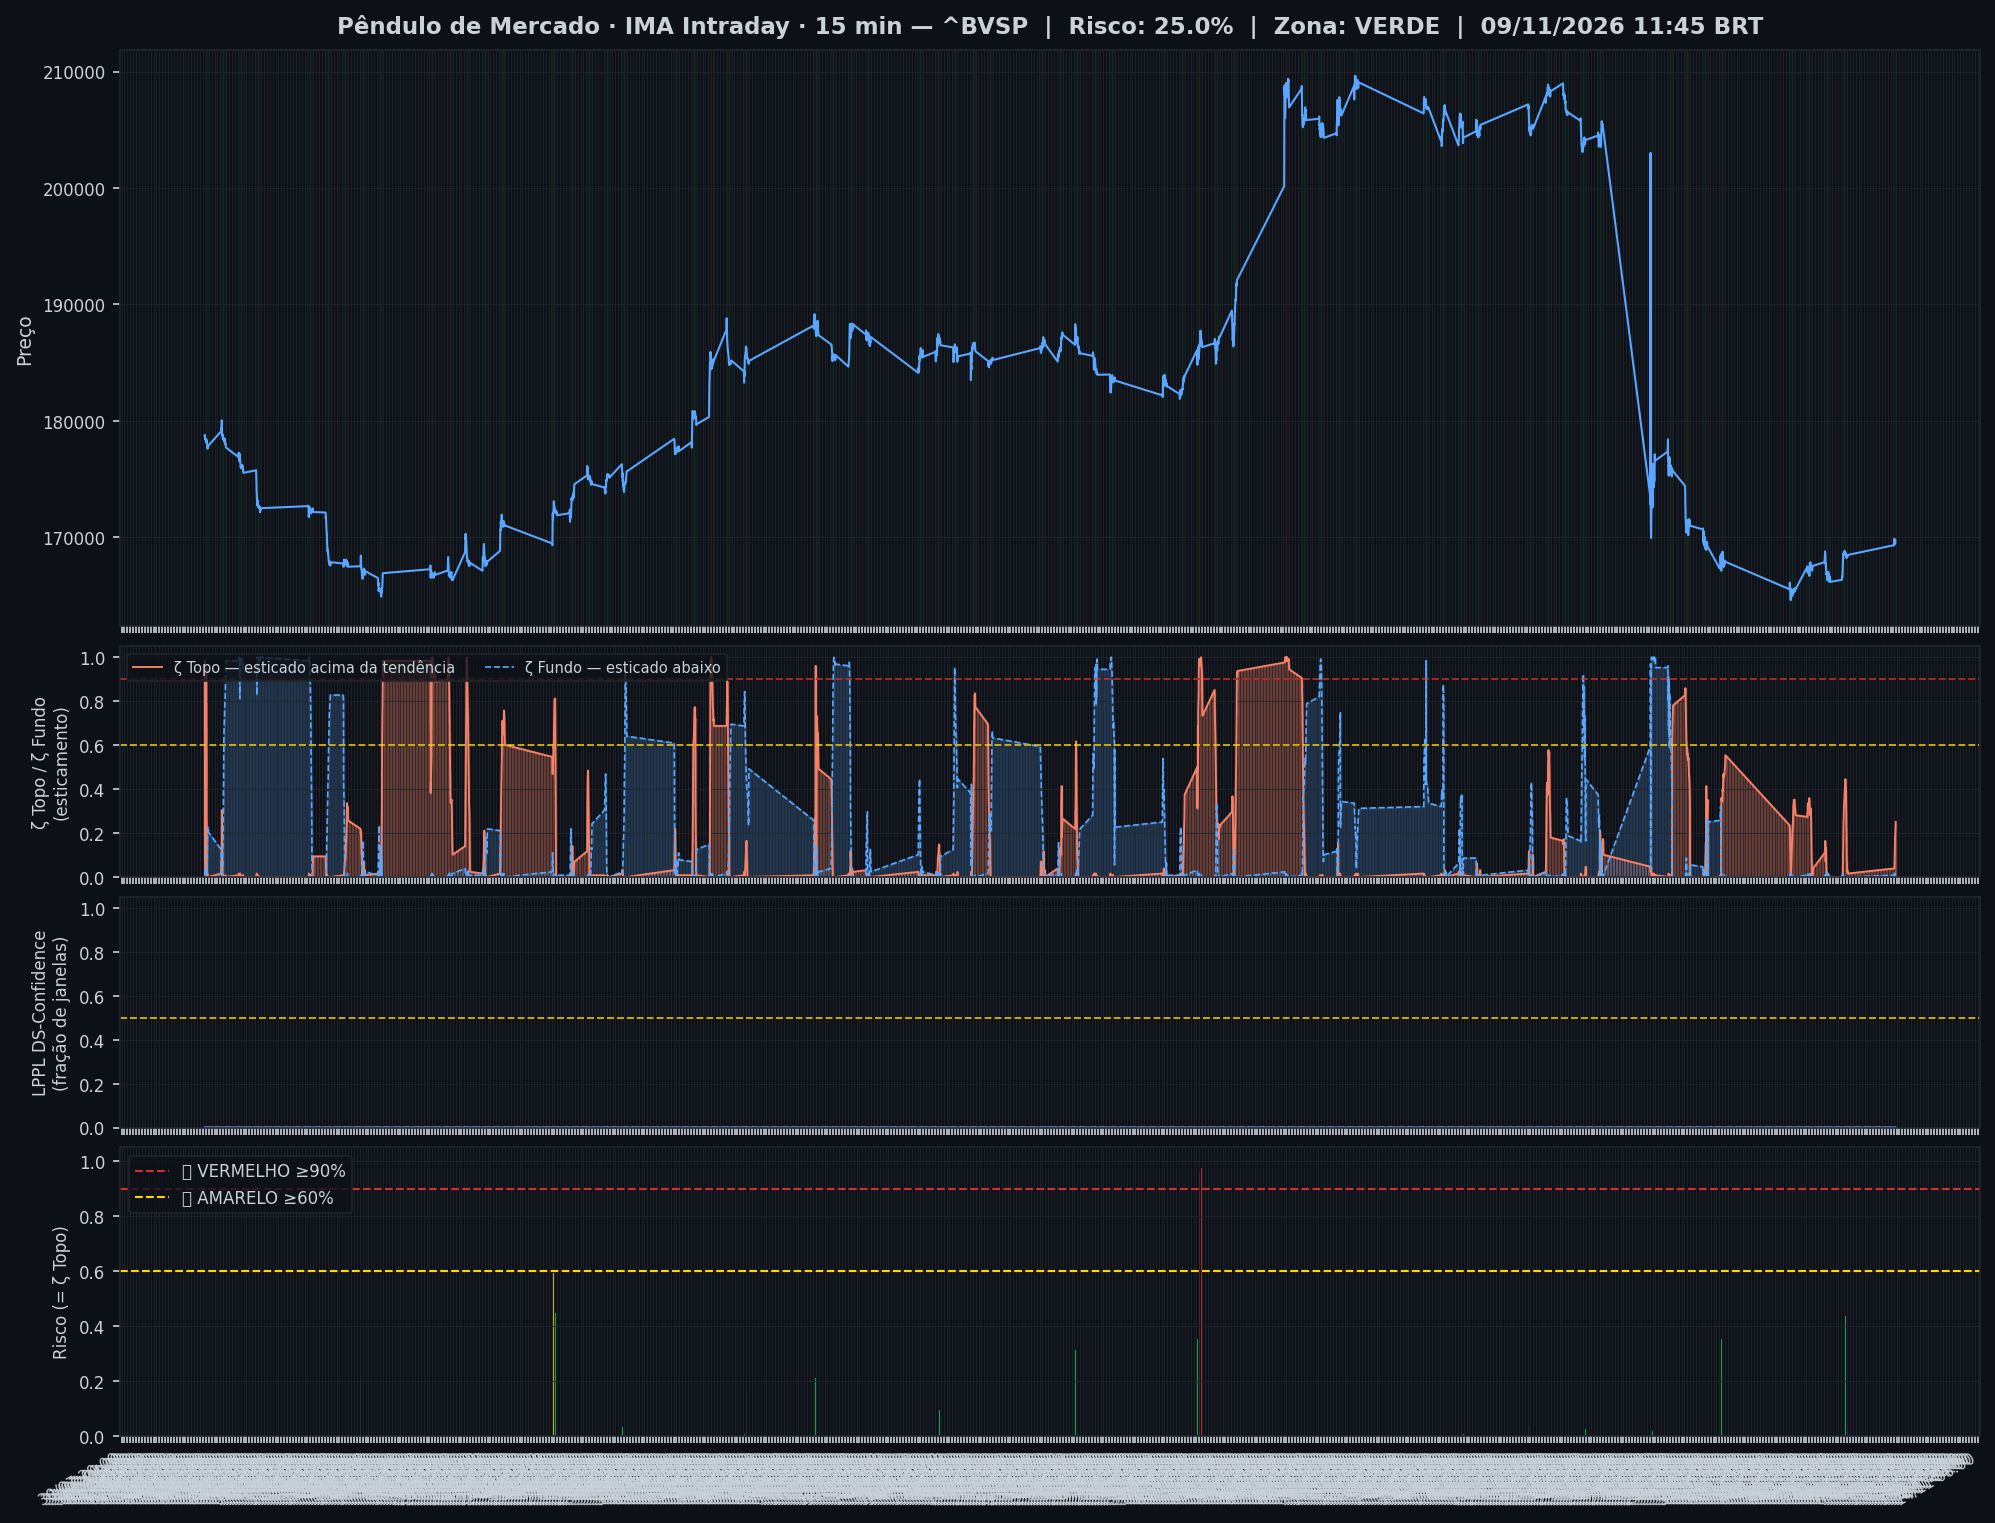
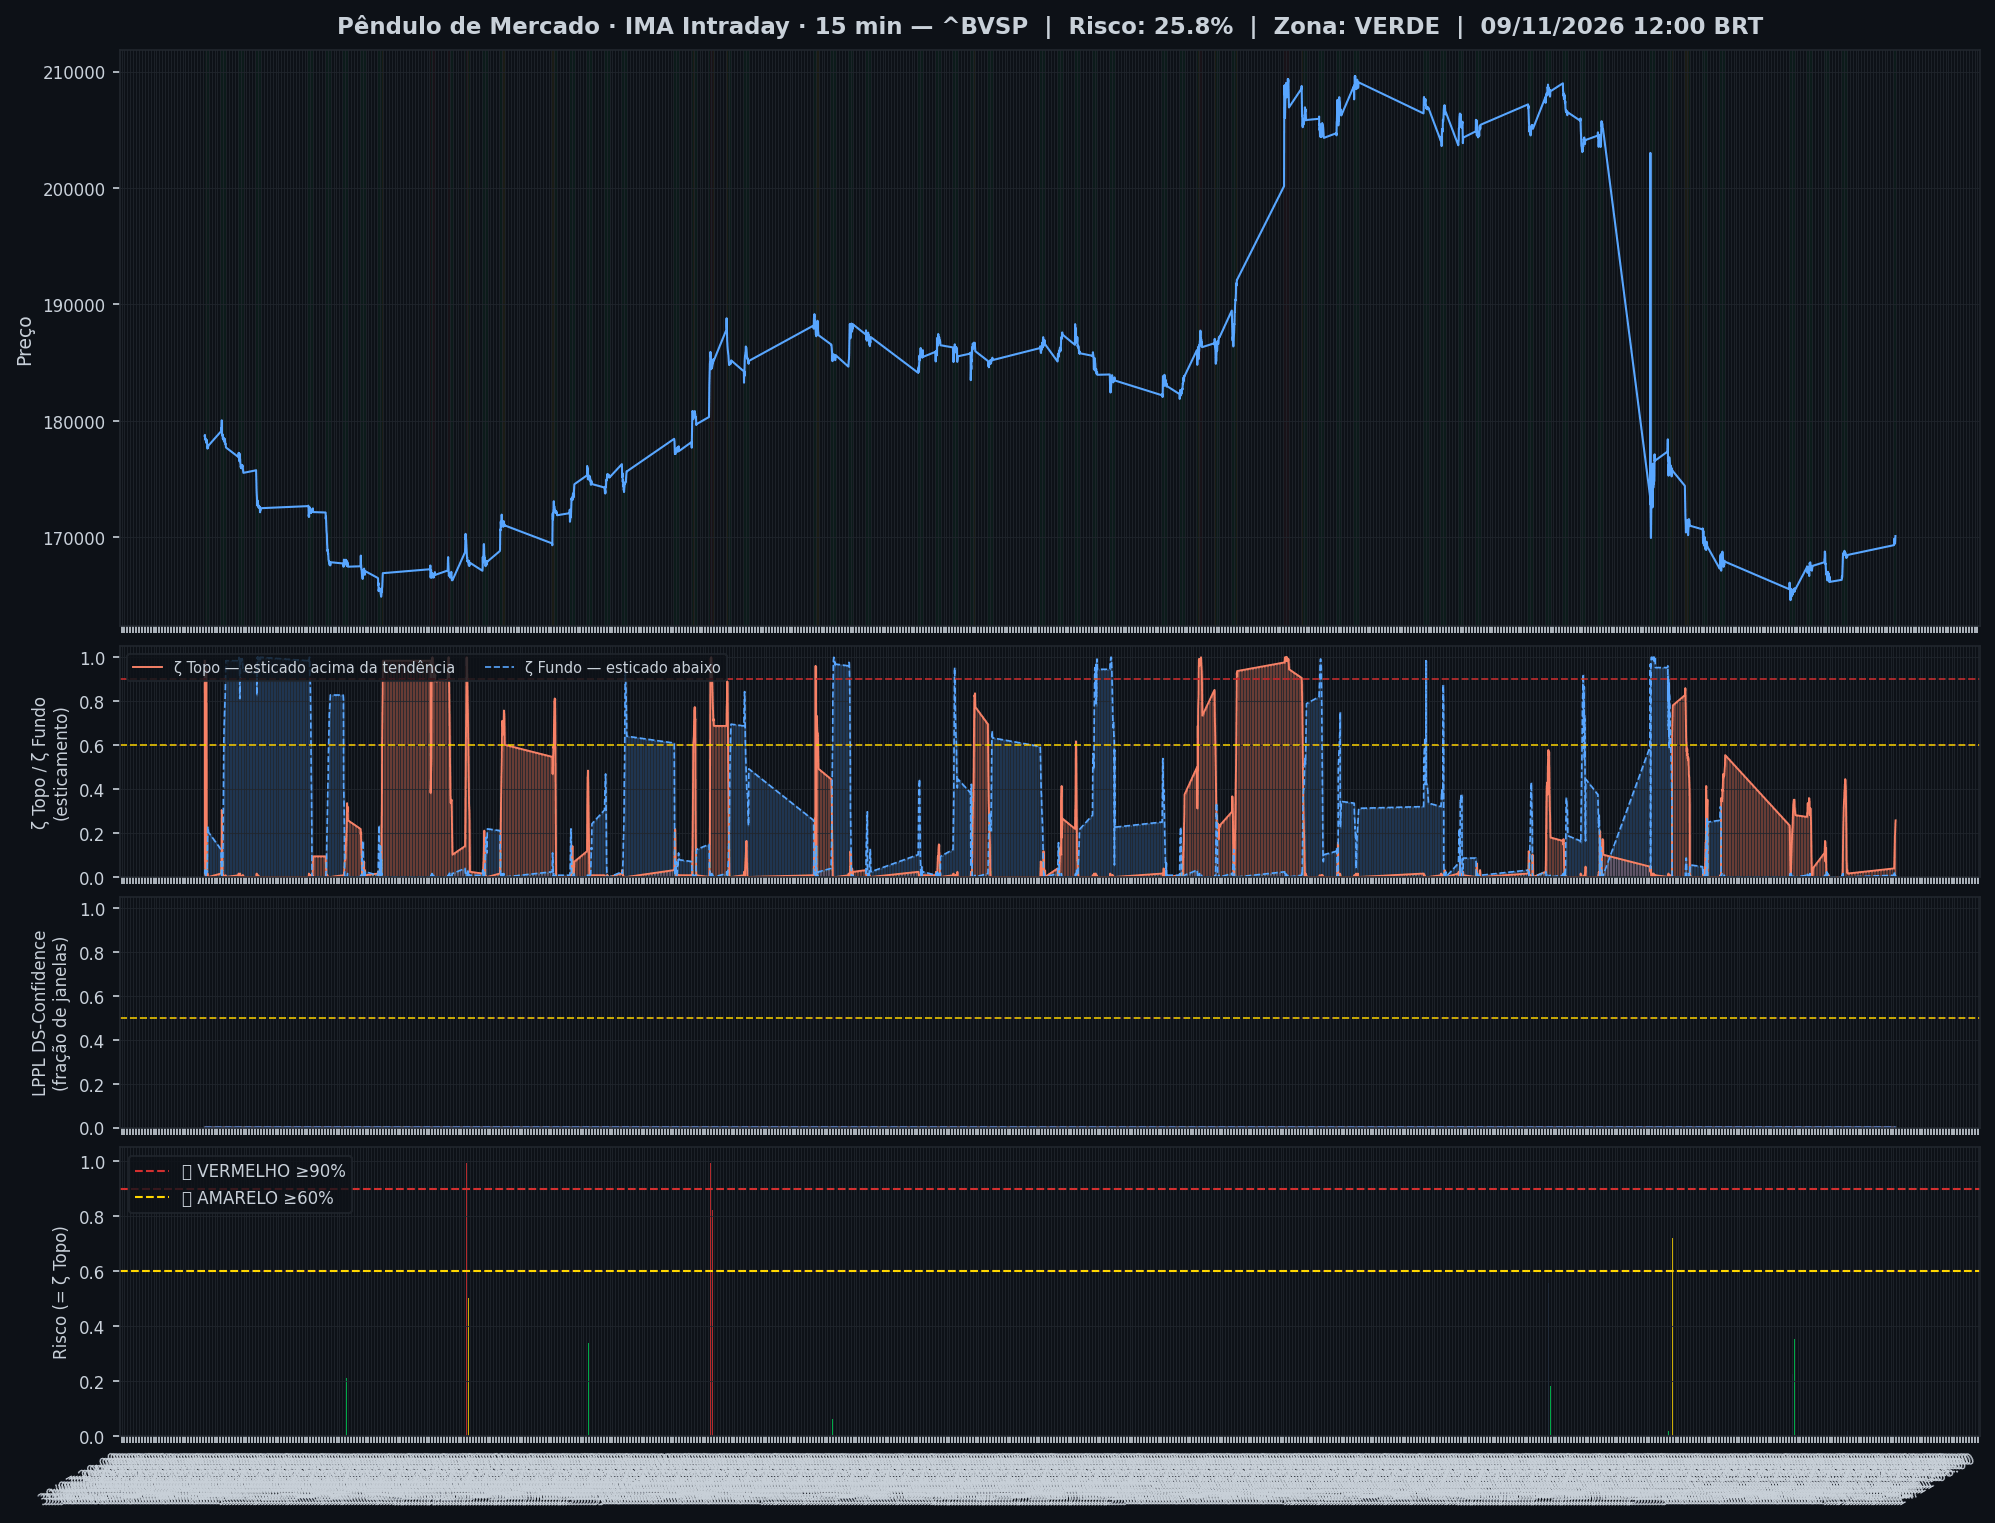
🤖 Auto: Sinal 09/11/2026 12:16

diff --git a/content/intraday/2026-11-09.md b/content/intraday/2026-11-09.md
@@ -1,10 +1,10 @@
 ---
-title: "🟢 Intraday 09/11/2026 11:45 BRT — VERDE"
+title: "🟢 Intraday 09/11/2026 12:00 BRT — VERDE"
 date: 2026-11-09
 tags: [intraday]
 ---
 
-> [!success] Onde o mercado está agora (09/11 11:45, candles de 15 min): **🟢 Calmo**
+> [!success] Onde o mercado está agora (09/11 12:00, candles de 15 min): **🟢 Calmo**
 > `Pânico ◀────────────●────────▶ Euforia`
 >
 > O Ibovespa está dentro da sua faixa normal, sem excesso para cima nem para baixo.
@@ -20,7 +20,7 @@ tags: [intraday]
 > | 📍 **Sinais** | hoje: nenhum sinal | [abrir](sinais-topo-fundo/) |
 > | 🧪 **Placar ao vivo** | 1 operação(ões), 0 com lucro, soma -0,8% | [abrir](operacoes/) |
 
-> [!success] IMA Intraday · 15 min (09/11 11:45): 🟢 **VERDE** — Risco 25% · ▲ +2 p.p. vs leitura anterior
+> [!success] IMA Intraday · 15 min (09/11 12:00): 🟢 **VERDE** — Risco 26% · ▲ +1 p.p. vs leitura anterior
 > `█████░░░░░░░░░░░░░░░`
 > Preço na faixa normal em torno da tendência.
 
@@ -32,13 +32,13 @@ tags: [intraday]
 >
 > *Leitura educacional baseada em 26 anos de dados, não recomendação. [Como usar](../metodologia/crise#3-como-usar-na-prática).*
 
-| Indicador — IMA Intraday · 15 min (09/11 11:45) | Valor |
+| Indicador — IMA Intraday · 15 min (09/11 12:00) | Valor |
 |---|---|
-| 🔴 ζ Topo — preço esticado acima da tendência | **25%** |
-| 🔵 ζ Fundo — preço esticado abaixo da tendência | 0% |
+| 🔴 ζ Topo — preço esticado acima da tendência | **26%** |
+| 🔵 ζ Fundo — preço esticado abaixo da tendência | 1% |
 | 🫧 LPPL bolha — alta super-exponencial (risco de crash) | 0% |
 | 🫧 LPPL antibolha — queda super-exponencial (risco de repique) | 0% |
-| 📊 Ibovespa | 169.765 pts |
+| 📊 Ibovespa | 170.120 pts |
 
 ![Gráfico do sinal](../graficos/sinal_intraday.png)
 
@@ -46,6 +46,7 @@ tags: [intraday]
 
 | Data | Zona | Evento | Risco | ζ Topo | ζ Fundo | LPPL |
 |---|---|---|---|---|---|---|
+| 2026-11-09 12:00 | 🟢 VERDE |  | **26%** | 26% | 1% | 0% |
 | 2026-11-09 11:45 | 🟢 VERDE |  | **25%** | 25% | 0% | 0% |
 | 2026-11-09 11:30 | 🟢 VERDE |  | **23%** | 23% | 0% | 0% |
 | 2026-11-09 11:15 | 🟢 VERDE |  | **20%** | 20% | 0% | 0% |
@@ -75,7 +76,6 @@ tags: [intraday]
 | 2026-11-06 13:30 | 🟢 VERDE |  | **39%** | 39% | 0% | 0% |
 | 2026-11-06 13:15 | 🟢 VERDE |  | **36%** | 36% | 0% | 0% |
 | 2026-11-06 13:00 | 🟢 VERDE |  | **35%** | 35% | 0% | 0% |
-| 2026-11-06 12:45 | 🟢 VERDE |  | **34%** | 34% | 0% | 0% |
 
 <small>Destaques: 🟡 ≥ 60% · 🔴 ≥ 90% (Risco e ζ Topo) · 🔵 ≥ 60% · 🔪 ≥ 90% (ζ Fundo) · 🫧 ≥ 30% · 🫧🔴 ≥ 50% (LPPL)</small>
 
@@ -85,37 +85,37 @@ tags: [intraday]
 
 | Zona | Ativo | Setor | ζ Topo | ζ Fundo |
 |---|---|---|---|---|
-| 🟡 | **SABESP** | Saneamento | 46.1% | 1.6% |
-| 🟢 | **WEG** | Industrial | 40.6% | 0.0% |
-| 🟢 | **ULTRAPAR** | Outros | 14.1% | 40.6% |
-| 🟢 | **VALE** | Mineração | 35.9% | 0.0% |
-| 🟢 | **BRASIL** | Financeiro | 33.6% | 2.3% |
-| 🟢 | **BRADESCO** | Financeiro | 32.8% | 0.0% |
-| 🟢 | **EMBRAER** | Outros | 30.5% | 0.0% |
-| 🟢 | **VIBRA** | Energia | 28.1% | 0.0% |
-| 🟢 | **PETROBRAS** | Petróleo | 0.8% | 25.0% |
-| 🟢 | **PRIO** | Petróleo | 0.0% | 25.0% |
-| 🟢 | **REDE D OR** | Saúde | 0.0% | 21.1% |
-| 🟢 | **GERDAU** | Siderurgia | 19.5% | 0.0% |
-| 🟢 | **ITAUSA** | Financeiro | 15.6% | 0.0% |
-| 🟢 | **ITAUUNIBANCO** | Financeiro | 14.8% | 0.0% |
-| 🟢 | **SUZANO S.A.** | Papel/Celulose | 2.3% | 12.5% |
-| 🟢 | **PETROBRAS** | Petróleo | 0.8% | 7.8% |
-| 🟢 | **B3** | Financeiro | 0.0% | 7.0% |
-| 🟢 | **ENEVA** | Energia | 6.2% | 0.0% |
-| 🟢 | **EQUATORIAL** | Energia | 0.0% | 6.2% |
-| 🟢 | **AMBEV S/A** | Consumo | 0.0% | 3.9% |
-| 🟢 | **COPEL** | Energia | 0.8% | 3.1% |
-| 🟢 | **LOCALIZA** | Aluguel | 0.8% | 2.3% |
-| 🟢 | **USD/BRL** | Câmbio | 0.0% | 1.6% |
-| 🟢 | **AXIA ENERGIA** | Energia | 0.0% | 0.8% |
+| 🟡 | **SABESP** | Saneamento | 45.3% | 1.6% |
+| 🟢 | **WEG** | Industrial | 39.8% | 0.8% |
+| 🟢 | **ULTRAPAR** | Outros | 17.2% | 35.9% |
+| 🟢 | **VALE** | Mineração | 35.2% | 0.0% |
+| 🟢 | **BRADESCO** | Financeiro | 32.8% | 0.8% |
+| 🟢 | **EMBRAER** | Outros | 31.2% | 0.0% |
+| 🟢 | **BRASIL** | Financeiro | 28.1% | 5.5% |
+| 🟢 | **VIBRA** | Energia | 27.3% | 0.8% |
+| 🟢 | **PETROBRAS** | Petróleo | 2.3% | 26.6% |
+| 🟢 | **PRIO** | Petróleo | 0.0% | 24.2% |
+| 🟢 | **REDE D OR** | Saúde | 0.0% | 22.7% |
+| 🟢 | **GERDAU** | Siderurgia | 20.3% | 0.8% |
+| 🟢 | **ITAUSA** | Financeiro | 14.1% | 0.8% |
+| 🟢 | **ITAUUNIBANCO** | Financeiro | 11.7% | 0.0% |
+| 🟢 | **ENEVA** | Energia | 9.4% | 1.6% |
+| 🟢 | **SUZANO S.A.** | Papel/Celulose | 3.1% | 7.0% |
+| 🟢 | **PETROBRAS** | Petróleo | 1.6% | 5.5% |
+| 🟢 | **B3** | Financeiro | 0.8% | 4.7% |
+| 🟢 | **AMBEV S/A** | Consumo | 0.8% | 4.7% |
+| 🟢 | **EQUATORIAL** | Energia | 0.8% | 4.7% |
+| 🟢 | **COPEL** | Energia | 1.6% | 3.9% |
+| 🟢 | **LOCALIZA** | Aluguel | 3.1% | 1.6% |
+| 🟢 | **AXIA ENERGIA** | Energia | 0.8% | 0.0% |
 | 🟢 | **BTGP BANCO** | Financeiro | 0.8% | 0.8% |
+| 🟢 | **USD/BRL** | Câmbio | 0.8% | 0.8% |
 
 <small>Destaques: 🟡 ≥ 60% · 🔴 ≥ 90% (Risco e ζ Topo) · 🔵 ≥ 60% · 🔪 ≥ 90% (ζ Fundo) · 🫧 ≥ 30% · 🫧🔴 ≥ 50% (LPPL)</small>
 
 ![Monitor multi-ativo](../graficos/multi_intraday.png)
 
-*Página atualizada em 09/11/2026 12:00 BRT (leitura da barra de 2026-11-09 11:45 BRT).*
+*Página atualizada em 09/11/2026 12:16 BRT (leitura da barra de 2026-11-09 12:00 BRT).*
 
 > [!warning] O que este indicador não faz
 > Medido em 5 anos de Ibovespa, o ζ **não antecipa** topos nem fundos: a capacidade de separar o que sobe do que cai ficou em 0,49–0,52, e 0,50 é moeda jogada ao ar. Ele descreve o estado de agora; não é aviso do que vem. As zonas verde/amarelo/vermelho continuam na página como descrição desse estado — **não as use como sinal de entrada ou saída**.

diff --git a/content/index.md b/content/index.md
@@ -6,9 +6,9 @@ tags: [home]
 
 **As ondas do mercado, explicadas.** Leitura do Ibovespa com estatística de 26 anos, baseada no trabalho de pesquisadores e traders reconhecidos e adaptada por Jarbas Daniel da Costa.
 
-*Última atualização: 09/11/2026 12:00 BRT · Intraday 15min*
+*Última atualização: 09/11/2026 12:16 BRT · Intraday 15min*
 
-> [!success] Onde o mercado está agora (09/11 11:45, candles de 15 min): **🟢 Calmo**
+> [!success] Onde o mercado está agora (09/11 12:00, candles de 15 min): **🟢 Calmo**
 > `Pânico ◀────────────●────────▶ Euforia`
 >
 > O Ibovespa está dentro da sua faixa normal, sem excesso para cima nem para baixo.
@@ -20,7 +20,7 @@ tags: [home]
 
 | Módulo | Agora | |
 |---|---|---|
-| 🌊 **Sinal IMA** | 🟢 VERDE · 🟢 calmo · ζ Topo 25% | [relatório](intraday/2026-11-09) |
+| 🌊 **Sinal IMA** | 🟢 VERDE · 🟢 calmo · ζ Topo 26% | [relatório](intraday/2026-11-09) |
 | 📈 **Tendência MME9** | Diário — fora<br>Semanal — fora | [abrir](operacoes/tendencia) |
 | 🎯 **Entradas do método** | ⏳ aguardando: Diário · Nadaraya, Diário · Semáforo N3 após ζ Fundo | [abrir](operacoes/entradas) |
 | 📍 **Sinais** | hoje: nenhum sinal | [abrir](sinais-topo-fundo/) |
@@ -49,18 +49,18 @@ tags: [home]
 > *Leitura educacional baseada em 26 anos de dados, não recomendação. [Como usar](metodologia/crise#3-como-usar-na-prática).*
 
 > [!info]- 🌊 Detalhes do Sinal IMA (indicadores e últimos 7 pregões)
-> > [!success] IMA Intraday · 15 min (09/11 11:45): 🟢 **VERDE** — Risco 25% · ▲ +2 p.p. vs leitura anterior
+> > [!success] IMA Intraday · 15 min (09/11 12:00): 🟢 **VERDE** — Risco 26% · ▲ +1 p.p. vs leitura anterior
 > > `█████░░░░░░░░░░░░░░░`
 > > Preço na faixa normal em torno da tendência.
 >
 >
-> | Indicador — IMA Intraday · 15 min (09/11 11:45) | Valor |
+> | Indicador — IMA Intraday · 15 min (09/11 12:00) | Valor |
 > |---|---|
-> | 🔴 ζ Topo — preço esticado acima da tendência | **25%** |
-> | 🔵 ζ Fundo — preço esticado abaixo da tendência | 0% |
+> | 🔴 ζ Topo — preço esticado acima da tendência | **26%** |
+> | 🔵 ζ Fundo — preço esticado abaixo da tendência | 1% |
 > | 🫧 LPPL bolha — alta super-exponencial (risco de crash) | 0% |
 > | 🫧 LPPL antibolha — queda super-exponencial (risco de repique) | 0% |
-> | 📊 Ibovespa | 169.765 pts |
+> | 📊 Ibovespa | 170.120 pts |
 >
 > **Multi-ativo:** 0% em tensão (0🔴 1🟡 de 25 ativos)
 >
@@ -68,7 +68,7 @@ tags: [home]
 >
 > | Data | Zona | Risco | ζ Topo | ζ Fundo | LPPL |
 > |---|---|---|---|---|---|
-> | [09/11/2026](intraday/2026-11-09) | 🟢 VERDE | **25%** | 25% | 0% | 0% |
+> | [09/11/2026](intraday/2026-11-09) | 🟢 VERDE | **26%** | 26% | 1% | 0% |
 > | [06/11/2026](intraday/2026-11-06) | 🟢 VERDE | **2%** | 2% | 0% | 0% |
 >
 > <small>Destaques: 🟡 ≥ 60% · 🔴 ≥ 90% (Risco e ζ Topo) · 🔵 ≥ 60% · 🔪 ≥ 90% (ζ Fundo) · 🫧 ≥ 30% · 🫧🔴 ≥ 50% (LPPL)</small>

diff --git a/content/historico.md b/content/historico.md
@@ -5,7 +5,7 @@ tags: [historico]
 
 # 📜 Histórico de leituras (v5)
 
-**2.218 leituras** desde 2026-07-03. Na página ficam os últimos 3 dias leitura por leitura e o resumo de cada dia anterior; o registro inteiro está no arquivo para baixar.
+**2.219 leituras** desde 2026-07-03. Na página ficam os últimos 3 dias leitura por leitura e o resumo de cada dia anterior; o registro inteiro está no arquivo para baixar.
 
 [**Baixar o histórico completo**](historico-completo.csv) (97 KB · abre no Excel e no LibreOffice)
 
@@ -16,6 +16,7 @@ tags: [historico]
 
 | Data | Modo | Zona | Risco | IMA | LPPL |
 |---|---|---|---|---|---|
+| 2026-11-09 12:00 | intraday | 🟢 VERDE | 26% | 26% | 0% |
 | 2026-11-09 11:45 | intraday | 🟢 VERDE | 25% | 25% | 0% |
 | 2026-11-09 11:30 | intraday | 🟢 VERDE | 23% | 23% | 0% |
 | 2026-11-09 11:15 | intraday | 🟢 VERDE | 20% | 20% | 0% |

diff --git a/content/operacoes/ranking.md b/content/operacoes/ranking.md
@@ -5,7 +5,7 @@ tags: [operacoes]
 description: "As regras de compra do site ordenadas pelo resultado, com treino, teste e placar ao vivo"
 ---
 
-*Atualizado 09/11/2026 12:00 · histórico simulado com as regras congeladas em 23/10/2026 + placar ao vivo.*
+*Atualizado 09/11/2026 12:16 · histórico simulado com as regras congeladas em 23/10/2026 + placar ao vivo.*
 
 As regras de compra do site, **da que mais rendeu para a que menos rendeu**. O resultado é por operação, no índice à vista, sem custos e sem juros compostos (a soma é só a soma das operações). **Treino** = entradas de 2001 a 2013 e **teste** = 2014 em diante: uma regra só é confiável se ganhou nos dois. O único resultado sem nenhum ajuste ao histórico é o **placar ao vivo**.
 

diff --git a/content/linha-do-tempo/index.md b/content/linha-do-tempo/index.md
@@ -5,7 +5,7 @@ description: "Todo sinal, ordem, stop e aviso do Pêndulo de Mercado, do mais re
 tags: [eventos]
 ---
 
-*Atualizada 09/11/2026 12:00 BRT · a cada 15 min no pregão e às 19h.*
+*Atualizada 09/11/2026 12:16 BRT · a cada 15 min no pregão e às 19h.*
 
 Tudo o que o sistema fez ou detectou, **do mais recente para o mais antigo**: sinais de topo e fundo, ordens de compra e de venda armadas, compras, vendas, stops, avisos de 🚨 preço perto do nível e mudanças do Sinal IMA. Os **últimos 7 dias** ficam abertos; o resto, por **ano → mês → dia**.
 
